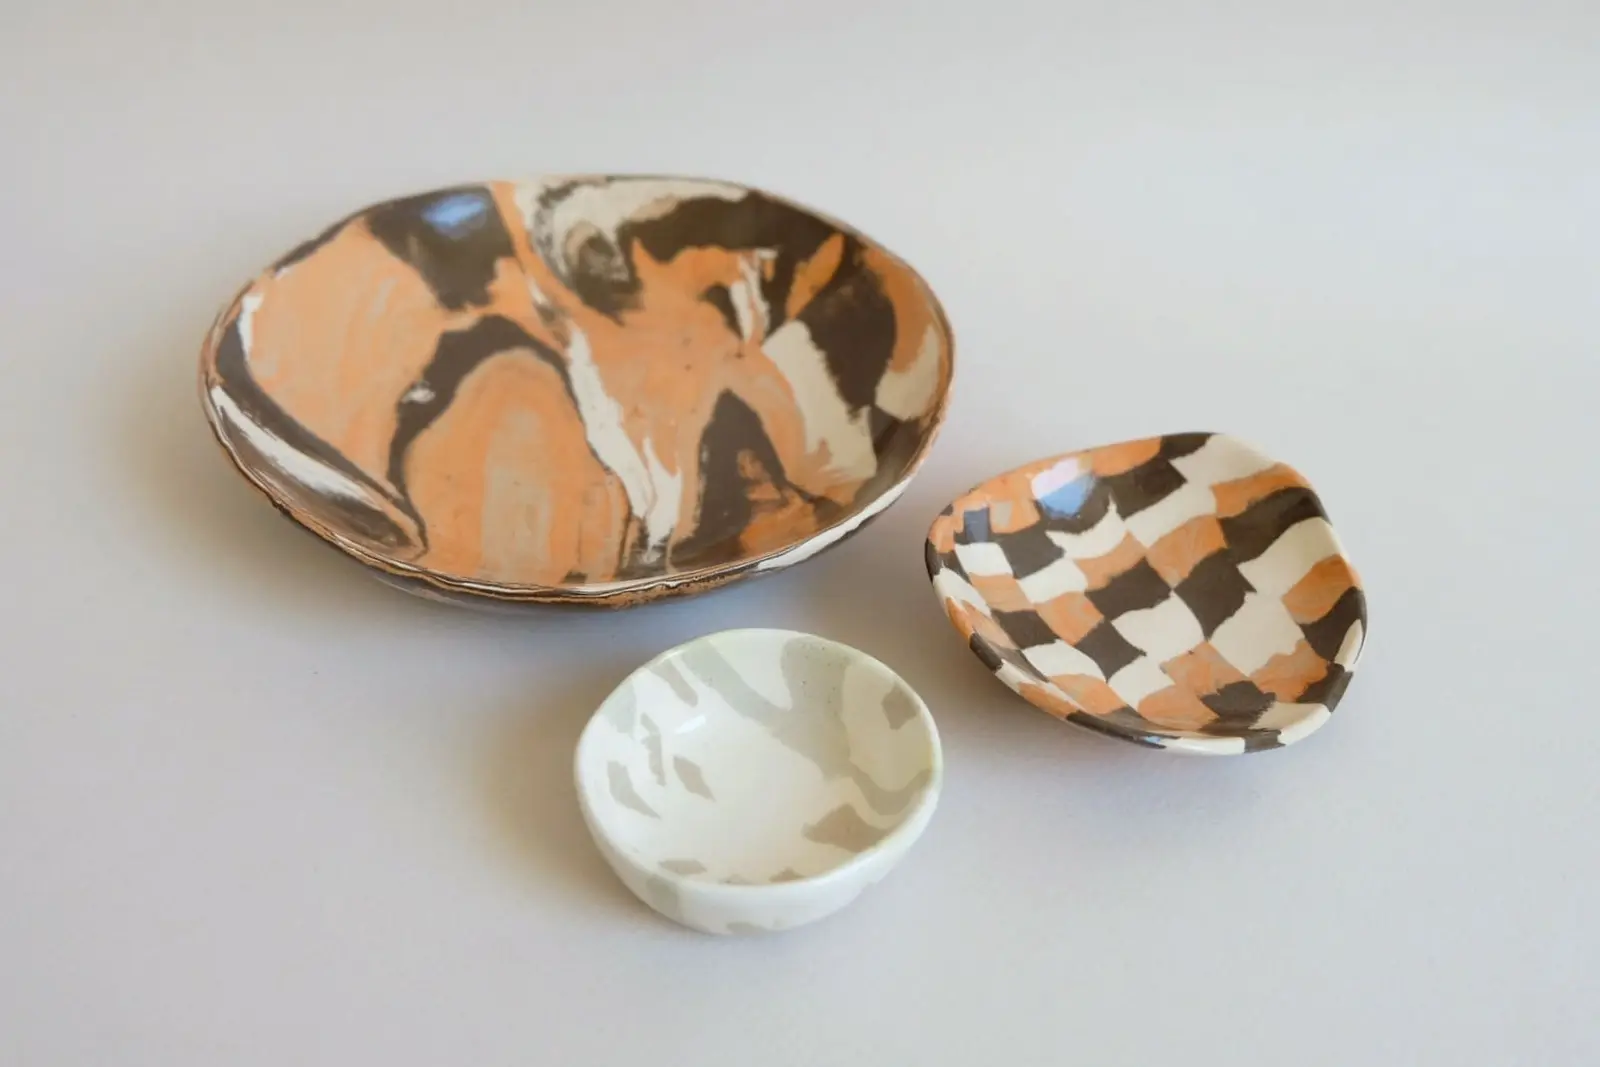
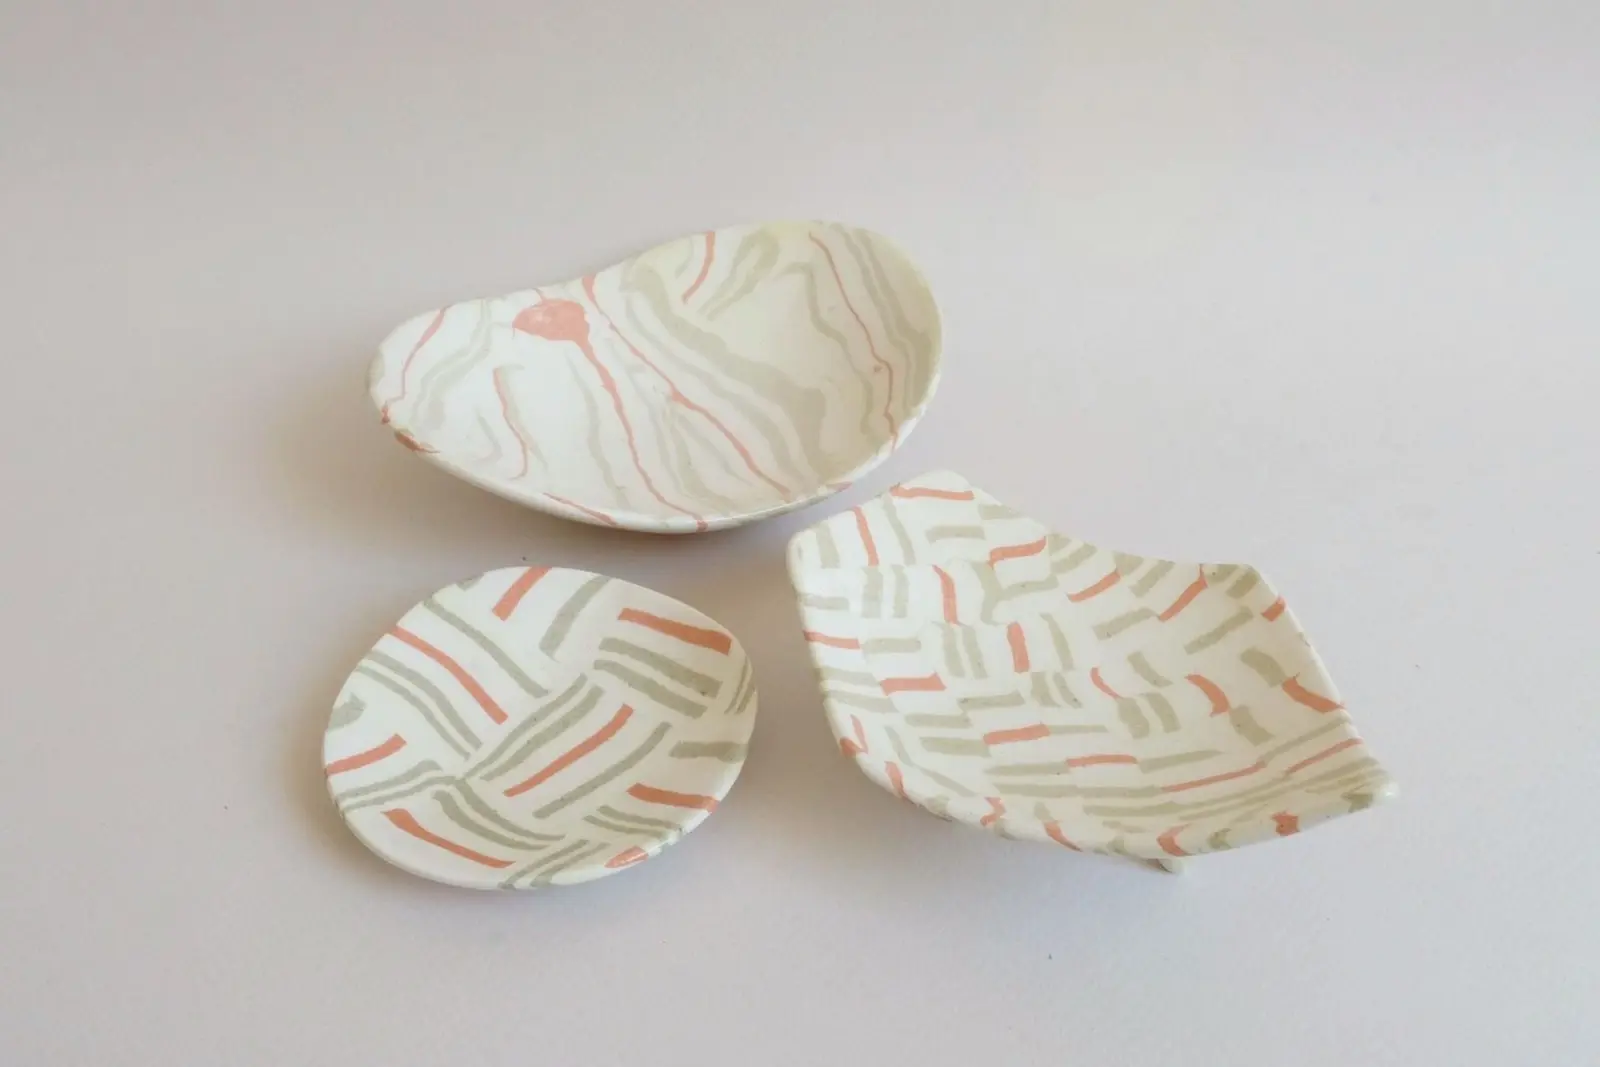
Update Nerikomi workshop image

diff --git a/src/_data/workshops.js b/src/_data/workshops.js
@@ -1843,7 +1843,7 @@ dates: [],
     capacity: 8,
     minParticipants: 2,
 
-    image: "/assets/img/nerikomi-workshop-lisbon.webp",
+    image: "/assets/img/nerikomi-workshop-lisbon.webp?v=20260920-2",
     enImageAlt:
       "Handmade ceramic plates created with the Japanese Nerikomi technique",
 

diff --git a/src/assets/css/styles.css b/src/assets/css/styles.css
@@ -2179,7 +2179,7 @@
 }
 
 .hp-card-nerikomi {
-  background-image: url("/assets/img/nerikomi-workshop-lisbon.webp");
+  background-image: url("/assets/img/nerikomi-workshop-lisbon.webp?v=20260920-2");
   background-position: center;
 }
 
